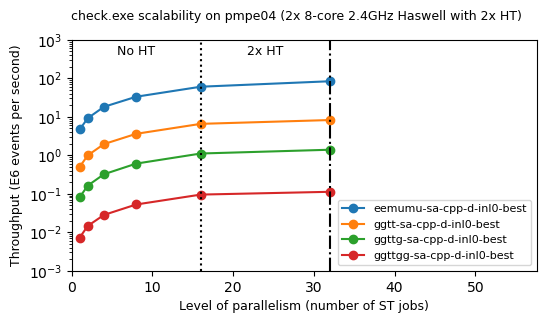
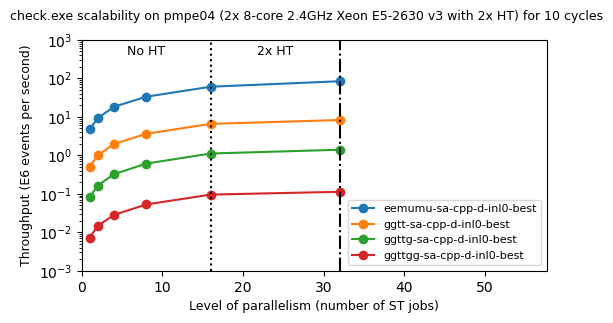
[bmk] add #cycles to pmpe04 plots

diff --git a/tools/benchmarking/bmkplots.py b/tools/benchmarking/bmkplots.py
@@ -324,9 +324,9 @@ if __name__ == '__main__':
     #dumpScoresAllKeys( loadRunSet( 'BMK-pmpe04'), keymatch='ggttgg-sa-cpp-d-inl0' )
 
     # PRODUCTION PLOTS
-    #allplots( 'BMK-pmpe04', '-e001' )
-    #allplots( 'BMK-pmpe04', '-e010' )
+    allplots( 'BMK-pmpe04', '-e001' )
+    allplots( 'BMK-pmpe04', '-e010' )
     #allplots( 'BMK-itscrd70', '-e001' )
     #allplots( 'BMK-itscrd70', '-e010' )
-    allplots( 'BMK-jwlogin08', '-e001' )
-    allplots( 'BMK-bmk6130', '-e001' )
+    #allplots( 'BMK-jwlogin08', '-e001' )
+    #allplots( 'BMK-bmk6130', '-e001' )
